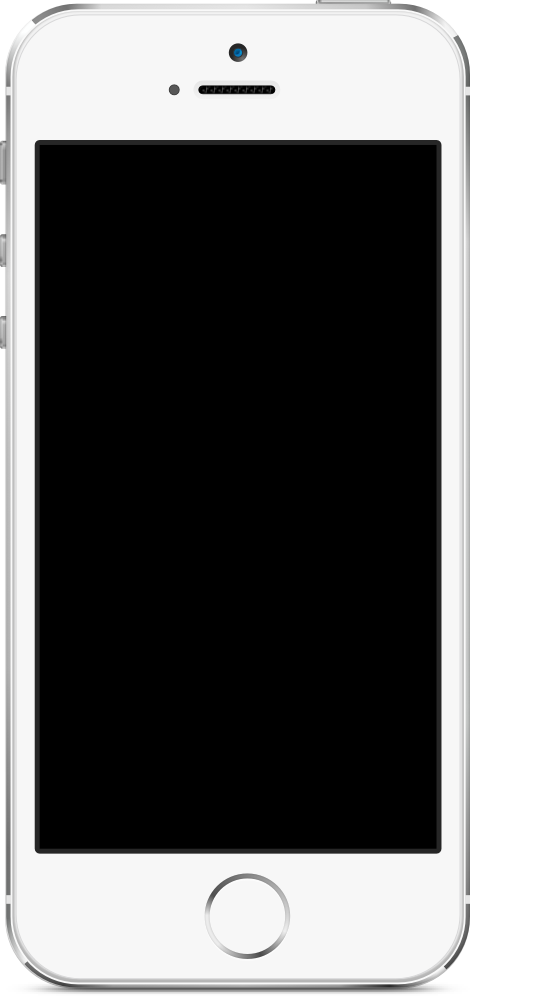
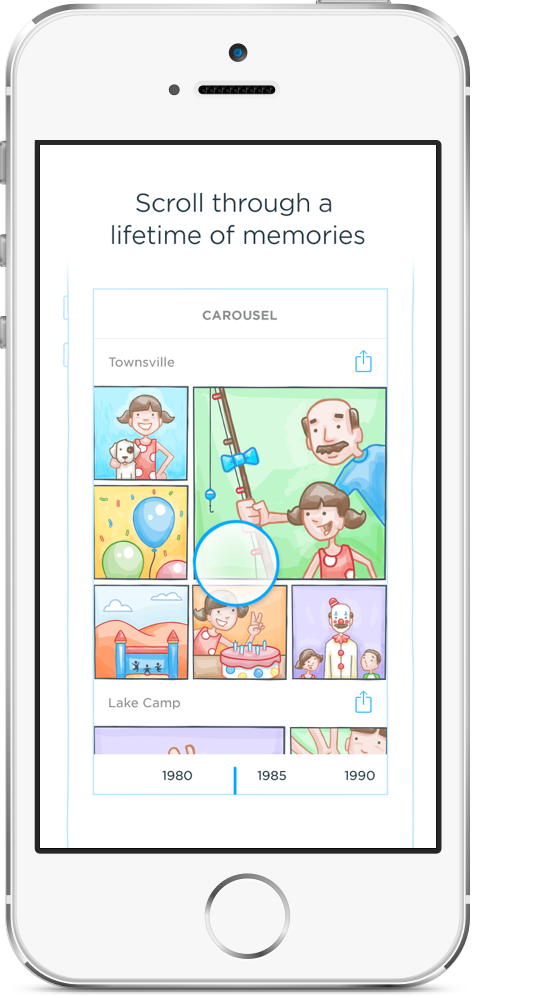
Fallback / Resp. Vid Fix

diff --git a/static/css/style-studio.css b/static/css/style-studio.css
@@ -66,7 +66,7 @@ h5 {
   line-height: 1.4;
   font-size: 30px;
   max-width: 600px;
-  margin: -20px auto;
+  margin: 0 auto;
   color: rgba(97, 109, 133, 0.8);
   -moz-font-feature-settings: "salt" 1, "ss01" 1;
   -moz-font-feature-settings: "salt=1, ss01=1";
@@ -125,7 +125,7 @@ img.app-icon {
 #header h1 {
   letter-spacing: -2px;
   font-weight: 200;
-  margin: 40px 0 10px 0;
+  margin: 40px 0 4px 0;
   font-size: 60px;
   line-height: 1;
   color: #333; }
@@ -259,11 +259,16 @@ section.mobile {
   font-size: 19px;
   color: #999; }
 
+#screenshot figure {
+  position: relative;
+  max-width: 608px;
+  margin: 0 auto; }
+
 #screenshot video {
   position: absolute;
   max-width: 112px;
-  top: 223px;
-  right: 325px;
+  top: 143px;
+  right: 98px;
   z-index: 100; }
 
 img.studio {
@@ -521,7 +526,10 @@ img.studio {
     max-width: 48%; }
 
   #screenshot-copy li:first-child {
-    margin-right: 2%; } }
+    margin-right: 2%; }
+
+  #carousel, #carousel-inapp {
+    display: none; } }
 @media only screen and (max-width: 580px) {
   #wrapper.index {
     padding: 40px 0; }

diff --git a/pages/studio/index.html b/pages/studio/index.html
@@ -31,10 +31,12 @@
 	</div> <!--inner-->
 	
 	<section id="screenshot">
-	<video id="carousel-inapp" width="100%">
-	<source src="/static/images/fs/carousel-inapp.mov" type="video/mp4" />
-	</video>
-	<img class="2x studio" src="/static/images/fs/ui-studio.png">
+	<figure class="app-screenshot">
+		<video id="carousel-inapp" width="100%">
+		<source src="/static/images/fs/carousel-inapp.mov" type="video/mp4" />
+		</video>
+		<img class="2x studio" src="/static/images/fs/ui-studio.png">
+	</figure>
 	</section>
 	
 	<div class="inner">
@@ -164,14 +166,12 @@
 		</div> <!--inner-->
 		</section> <!--viewer-block -->
 	
-	
-	<!-- Quote 2 -->
-	<figure class="quote bottom">
-		<h5>Prototyping encourages exploration and helps designers effectively communicate concepts.</h5>
-	</figure>
-	
-	
 	<div class="inner">
+	<hr class="block">
+	<!-- Quote 2 -->
+	<h5>Prototyping encourages exploration and helps designers effectively communicate concepts.</h5>
+	<hr class="block">
+
 
 	<section id="footer-features" class="one-third clearfix">
 		<h2>And many more features.</h2>

diff --git a/static/css/style-studio.scss b/static/css/style-studio.scss
@@ -100,7 +100,7 @@ h5 {
 	font-weight:200; 
 	line-height: 1.4;
 	font-size: 30px; 
-	max-width: 600px; margin: -20px auto;
+	max-width: 600px; margin: 0 auto;
 	color: $graphite80; 
 	-moz-font-feature-settings:"salt" 1, "ss01" 1; 
 	-moz-font-feature-settings:"salt=1, ss01=1"; 
@@ -156,7 +156,7 @@ img.app-icon {
 #header h1 {
 	letter-spacing: -2px;
 	font-weight: 200;
-	margin: 40px 0 10px 0;
+	margin: 40px 0 4px 0;
 	font-size: 60px; line-height: 1;
 	color: #333;
 }
@@ -288,10 +288,14 @@ section.mobile {
 	color: #999;
 }
 
+#screenshot figure {
+	position: relative;
+	max-width: 608px; margin: 0 auto;
+}
 
 #screenshot video {
 	position: absolute; max-width: 112px;
-	top: 223px; right: 325px; z-index: 100;
+	top: 143px; right: 98px; z-index: 100;
 }
 img.studio {
 	position: relative;max-width: 608px; width: 100%;
@@ -584,6 +588,10 @@ h5 {
 }
 
 #screenshot-copy li:first-child { margin-right: 2%; }
+
+#carousel, #carousel-inapp {
+	display: none;
+}
 }
 
 @media only screen and (max-width: 580px) {
